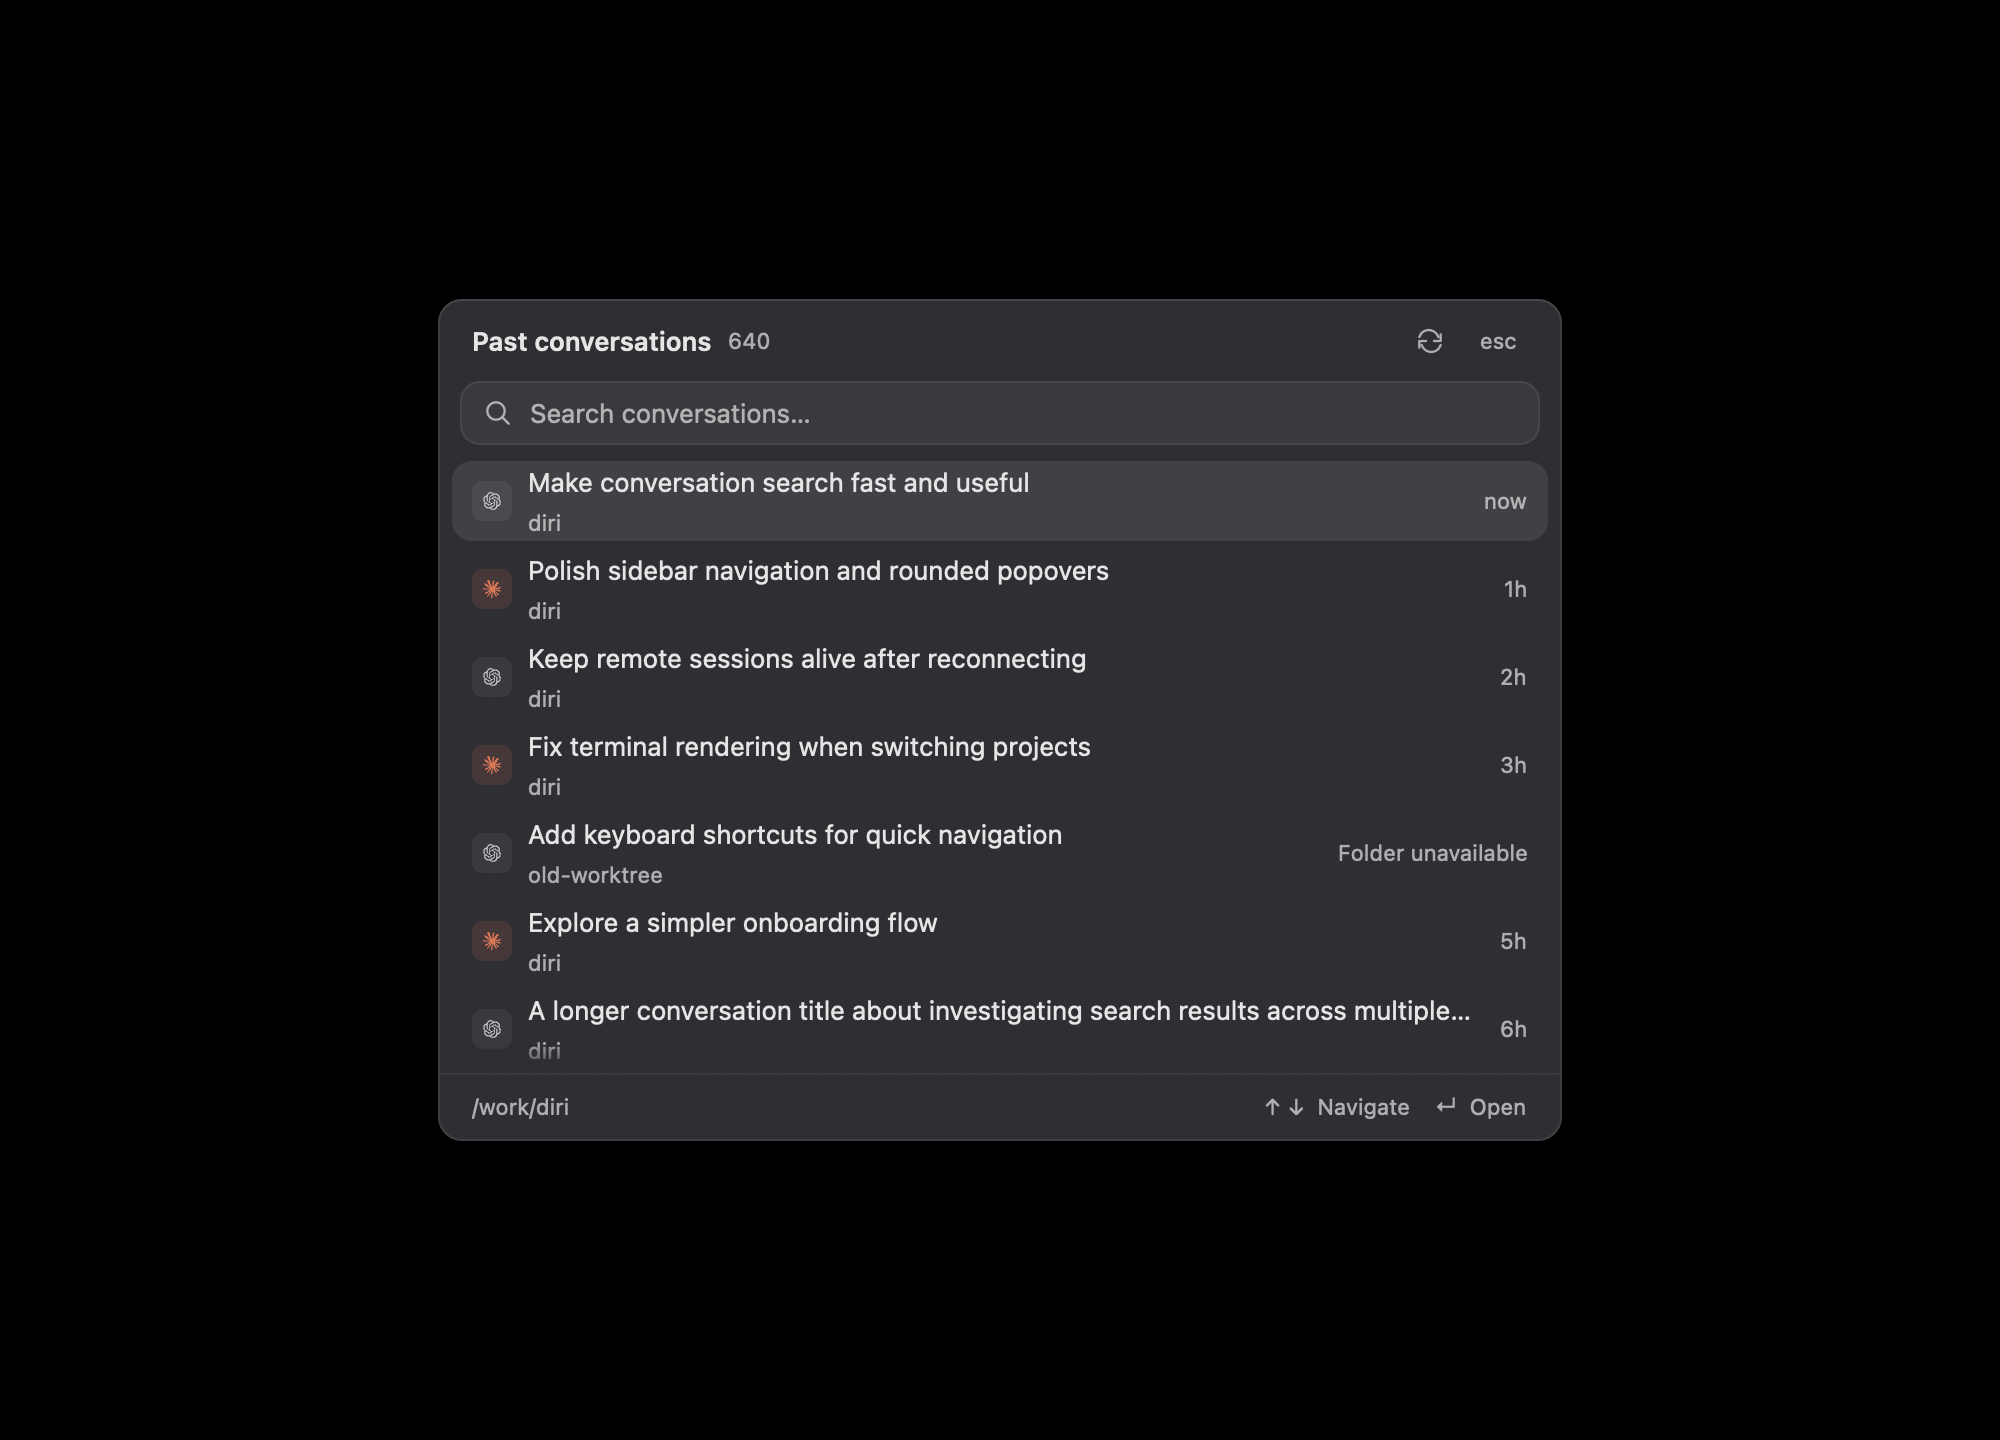
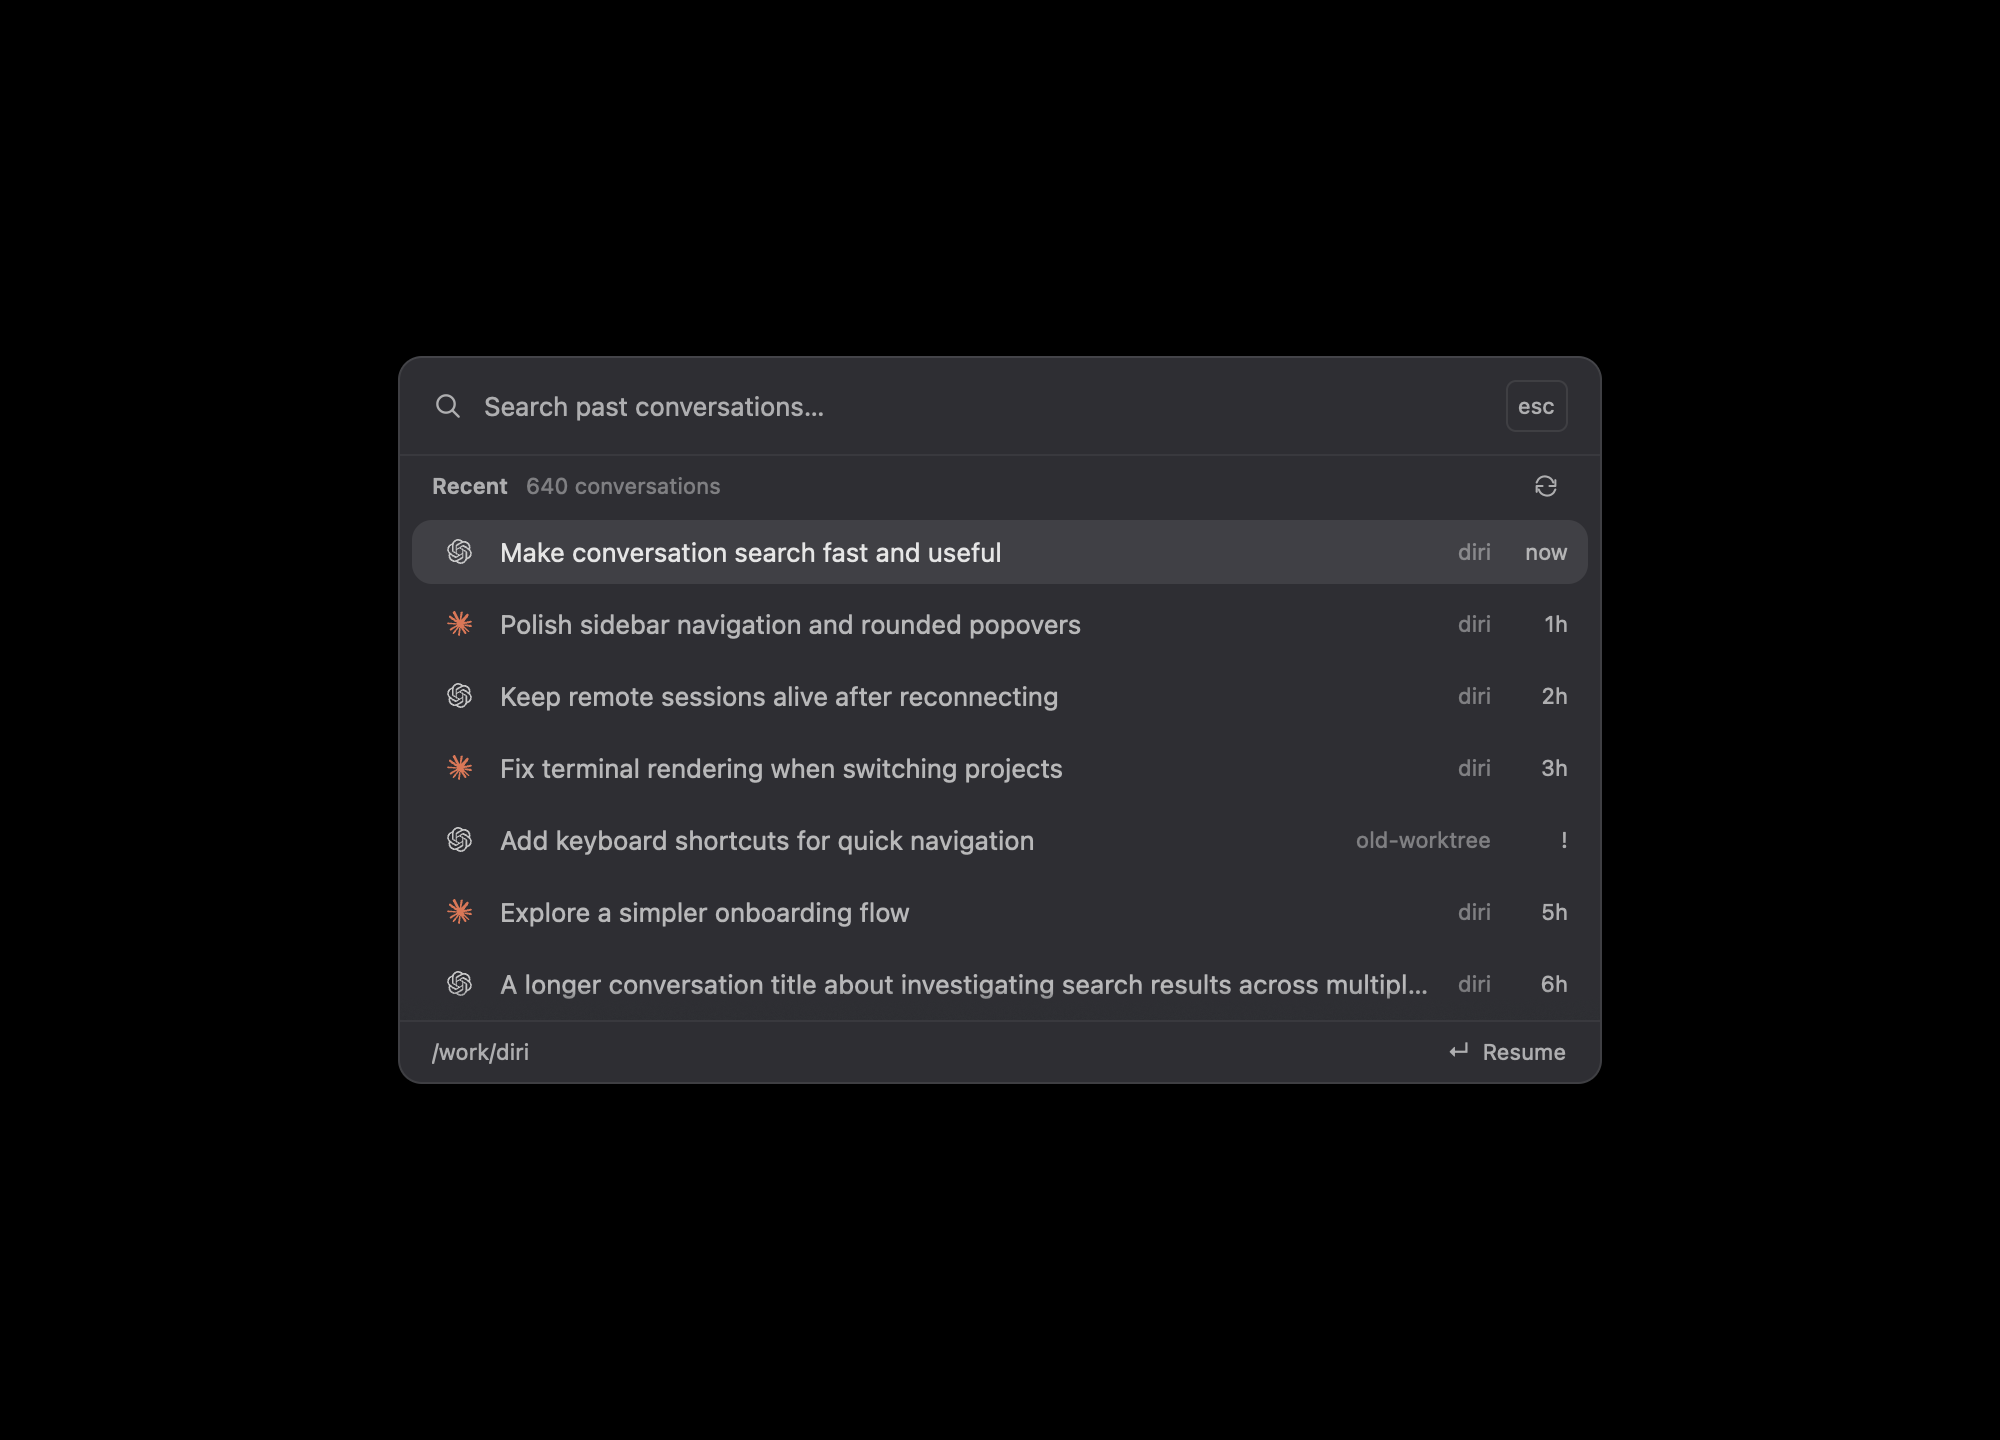
Simplify history into a compact conversation palette

Changed region(s): [[0.186, 0.1875, 0.806, 0.8125], [0.682, 0.5625, 0.744, 0.5938]]

diff --git a/diri/crates/diri-app/src/surface_shell.rs b/diri/crates/diri-app/src/surface_shell.rs
@@ -38,7 +38,7 @@ use crate::commands::{
     Activate, COMMANDS, CloseSurface, CommandId, MoveDown, MoveUp, OpenSettings, OpenWorktrees,
     ShortcutCategory, ToggleHistory, UTILITY_CONTEXT,
 };
-const HISTORY_ROW_HEIGHT: f32 = 44.0;
+const HISTORY_ROW_HEIGHT: f32 = 36.0;
 const HISTORY_LIST_HEIGHT: f32 = HISTORY_ROW_HEIGHT * 7.0;
 
 const SETTINGS_CONTENT_MAX_WIDTH: f32 = 760.0;
@@ -1651,7 +1651,16 @@ impl UtilitySurfaces {
             .title
             .clone()
             .unwrap_or_else(|| "Untitled conversation".to_owned());
-        let detail = format!("{title}\n{} · {}", entry.kind.id(), entry.cwd);
+        let detail = format!(
+            "{title}\n{} · {}{}",
+            entry.kind.id(),
+            entry.cwd,
+            if resumable {
+                ""
+            } else {
+                "\nFolder unavailable"
+            }
+        );
         let age = relative_time(entry.last_active_at.0);
         let agent = ui_agent(&entry.kind);
         div()
@@ -1667,7 +1676,7 @@ impl UtilitySurfaces {
                     .rounded(px(Radius::CARD))
                     .flex()
                     .items_center()
-                    .gap(px(8.0))
+                    .gap(px(6.0))
                     .bg(Fill::selected(colors, selected))
                     .when(resumable && !busy, |row| row.cursor_pointer())
                     .when(!resumable, |row| {
@@ -1685,43 +1694,39 @@ impl UtilitySurfaces {
                         this.history_highlight = index;
                         this.resume_history(entry.clone(), cx);
                     }))
-                    .child(AgentLogo::new(agent, 20.0, colors))
+                    .child(AgentLogo::new(agent, 28.0, colors).badged(false))
                     .child(
                         div()
-                            .flex()
-                            .flex_col()
                             .flex_1()
                             .min_w(px(0.0))
-                            .gap(px(1.0))
-                            .child(
-                                div()
-                                    .text_size(px(13.0))
-                                    .font_weight(if selected {
-                                        FontWeight::MEDIUM
-                                    } else {
-                                        FontWeight::NORMAL
-                                    })
-                                    .text_color(colors.primary)
-                                    .truncate()
-                                    .child(title),
-                            )
-                            .child(
-                                div()
-                                    .text_size(px(Typo::META.size))
-                                    .text_color(colors.secondary)
-                                    .truncate()
-                                    .child(folder),
-                            ),
+                            .text_size(px(Typo::ROW.size))
+                            .text_color(if selected {
+                                colors.primary
+                            } else {
+                                colors.text(diri_ui::TextTone::Unselected)
+                            })
+                            .truncate()
+                            .child(title),
+                    )
+                    .child(
+                        div()
+                            .max_w(px(88.0))
+                            .text_size(px(Typo::META.size))
+                            .text_color(colors.tertiary)
+                            .truncate()
+                            .child(folder),
                     )
                     .child(
                         div()
                             .flex_none()
-                            .text_size(px(11.0))
+                            .w(px(32.0))
+                            .text_right()
+                            .text_size(px(Typo::META.size))
                             .text_color(colors.secondary)
                             .child(if opening {
-                                "Opening…".to_owned()
+                                "…".to_owned()
                             } else if !resumable {
-                                "Folder unavailable".to_owned()
+                                "!".to_owned()
                             } else {
                                 age
                             }),
@@ -1740,7 +1745,7 @@ impl UtilitySurfaces {
         } else if self.history_loading {
             "Updating…".to_owned()
         } else if self.history_query.is_empty() {
-            count.to_string()
+            format!("{count} conversations")
         } else {
             format!("{count} matches")
         };
@@ -1750,34 +1755,102 @@ impl UtilitySurfaces {
             div()
                 .id("conversation-history")
                 .debug_selector(|| "conversation-history".into())
-                .w(px(560.0))
+                .w(px(600.0))
                 .max_w_full()
                 .flex()
                 .flex_col()
                 .child(
                     div()
+                        .h(px(48.0))
                         .px(px(16.0))
-                        .h(px(40.0))
+                        .flex()
+                        .items_center()
+                        .gap(px(10.0))
+                        .child(sf_symbol("magnifyingglass", 14.0, colors.secondary))
+                        .child(
+                            div()
+                                .flex_1()
+                                .min_w(px(0.0))
+                                .overflow_hidden()
+                                .text_size(px(Typo::ROW.size))
+                                .text_color(if self.history_query.is_empty() {
+                                    colors.secondary
+                                } else {
+                                    colors.primary
+                                })
+                                .child(if self.history_query.is_empty() {
+                                    div().child("Search past conversations…").into_any_element()
+                                } else {
+                                    query_label(&self.history_query)
+                                }),
+                        )
+                        .when(!self.history_query.is_empty(), |view| {
+                            view.child(
+                                div()
+                                    .id("clear-history-search")
+                                    .cursor_pointer()
+                                    .size(px(24.0))
+                                    .flex()
+                                    .items_center()
+                                    .justify_center()
+                                    .rounded(px(Radius::CHIP))
+                                    .hover(move |style| style.bg(Fill::hover(colors, true)))
+                                    .on_click(cx.listener(|this, _, _, cx| {
+                                        this.history_query.clear();
+                                        this.history_highlight = 0;
+                                        this.filter_history();
+                                        this.history_scroll.scroll_to_item(0, ScrollStrategy::Top);
+                                        cx.notify();
+                                    }))
+                                    .child(sf_symbol("xmark.circle.fill", 12.0, colors.secondary)),
+                            )
+                        })
+                        .child(
+                            div()
+                                .id("close-history")
+                                .cursor_pointer()
+                                .rounded(px(Radius::CHIP))
+                                .px(px(5.0))
+                                .py(px(3.0))
+                                .text_size(px(Typo::META.size))
+                                .text_color(colors.secondary)
+                                .border_1()
+                                .border_color(colors.floating_stroke())
+                                .hover(move |style| style.bg(Fill::hover(colors, true)))
+                                .on_click(cx.listener(|this, _, _, cx| this.close_surface(cx)))
+                                .child("esc"),
+                        ),
+                )
+                .child(HairlineDivider::horizontal(colors))
+                .child(
+                    div()
+                        .px(px(16.0))
+                        .h(px(30.0))
                         .flex()
                         .items_center()
                         .gap(px(8.0))
                         .child(
                             div()
-                                .text_size(px(Typo::TITLE.size))
-                                .font_weight(Typo::TITLE.weight)
-                                .child("Past conversations"),
+                                .text_size(px(Typo::SECTION_HEADER.size))
+                                .font_weight(Typo::SECTION_HEADER.weight)
+                                .text_color(colors.secondary)
+                                .child(if self.history_query.is_empty() {
+                                    "Recent"
+                                } else {
+                                    "Results"
+                                }),
                         )
                         .child(
                             div()
                                 .flex_1()
                                 .text_size(px(Typo::META.size))
-                                .text_color(colors.secondary)
+                                .text_color(colors.tertiary)
                                 .child(status),
                         )
                         .child(
                             div()
                                 .id("refresh-history")
-                                .size(px(24.0))
+                                .size(px(22.0))
                                 .rounded(px(Radius::CHIP))
                                 .flex()
                                 .items_center()
@@ -1796,81 +1869,10 @@ impl UtilitySurfaces {
                                 .on_click(cx.listener(|this, _, _, cx| this.refresh_history(cx)))
                                 .child(sf_symbol(
                                     "arrow.triangle.2.circlepath",
-                                    12.0,
+                                    11.0,
                                     colors.secondary,
                                 )),
-                        )
-                        .child(
-                            div()
-                                .id("close-history")
-                                .cursor_pointer()
-                                .rounded(px(Radius::CHIP))
-                                .px(px(5.0))
-                                .py(px(4.0))
-                                .text_size(px(Typo::META.size))
-                                .text_color(colors.secondary)
-                                .hover(move |style| style.bg(Fill::hover(colors, true)))
-                                .on_click(cx.listener(|this, _, _, cx| this.close_surface(cx)))
-                                .child("esc"),
                         ),
-                )
-                .child(
-                    div().px(px(10.0)).pb(px(6.0)).child(
-                        div()
-                            .h(px(32.0))
-                            .px(px(10.0))
-                            .rounded(px(Radius::CARD))
-                            .bg(Fill::subtle(colors))
-                            .border_1()
-                            .border_color(colors.primary.alpha(0.08))
-                            .flex()
-                            .items_center()
-                            .gap(px(8.0))
-                            .text_size(px(Typo::ROW.size))
-                            .child(sf_symbol("magnifyingglass", 12.0, colors.secondary))
-                            .child(
-                                div()
-                                    .flex_1()
-                                    .min_w(px(0.0))
-                                    .overflow_hidden()
-                                    .text_color(if self.history_query.is_empty() {
-                                        colors.secondary
-                                    } else {
-                                        colors.primary
-                                    })
-                                    .child(if self.history_query.is_empty() {
-                                        div().child("Search conversations…").into_any_element()
-                                    } else {
-                                        query_label(&self.history_query)
-                                    }),
-                            )
-                            .when(!self.history_query.is_empty(), |view| {
-                                view.child(
-                                    div()
-                                        .id("clear-history-search")
-                                        .cursor_pointer()
-                                        .size(px(24.0))
-                                        .flex()
-                                        .items_center()
-                                        .justify_center()
-                                        .rounded(px(Radius::CHIP))
-                                        .hover(move |style| style.bg(Fill::hover(colors, true)))
-                                        .on_click(cx.listener(|this, _, _, cx| {
-                                            this.history_query.clear();
-                                            this.history_highlight = 0;
-                                            this.filter_history();
-                                            this.history_scroll
-                                                .scroll_to_item(0, ScrollStrategy::Top);
-                                            cx.notify();
-                                        }))
-                                        .child(sf_symbol(
-                                            "xmark.circle.fill",
-                                            12.0,
-                                            colors.secondary,
-                                        )),
-                                )
-                            }),
-                    ),
                 )
                 .when_some(self.history_error.clone(), |view, error| {
                     view.child(
@@ -1940,7 +1942,7 @@ impl UtilitySurfaces {
                 .child(
                     div()
                         .px(px(16.0))
-                        .h(px(32.0))
+                        .h(px(30.0))
                         .flex()
                         .items_center()
                         .gap(px(12.0))
@@ -1962,7 +1964,13 @@ impl UtilitySurfaces {
                                 .flex_none()
                                 .text_size(px(Typo::META.size))
                                 .text_color(colors.secondary)
-                                .child("↑ ↓  Navigate    ↵  Open"),
+                                .child(if selected.is_some_and(|entry| !entry.cwd_exists) {
+                                    "Folder unavailable"
+                                } else if selected.is_some() {
+                                    "↵  Resume"
+                                } else {
+                                    "↑ ↓  Navigate"
+                                }),
                         ),
                 ),
         )

diff --git a/docs/images/conversation-history/README.md b/docs/images/conversation-history/README.md
@@ -1,6 +1,6 @@
 # Past conversations
 
-The history picker uses a compact header, 44-point rows, and the shared panel and row corner radii. Each row shows the conversation title, project, and age. Hover for the full title, agent, and path; the selected project's path also appears in the footer. Search still matches titles, projects, and agents.
+The history picker uses a single search header, 36-point single-line rows, and the shared panel and row corner radii. Unboxed agent marks and conversation titles lead each row, with quieter project names and ages aligned on the right. Hover for the full title, agent, and path; the selected project's path and a Resume hint appear in the footer. Search still matches titles, projects, and agents.
 
 The result list fades at edges with more content and remains clear when all results fit. The shared floating surface provides its entrance fade and respects Reduce Motion.
 
